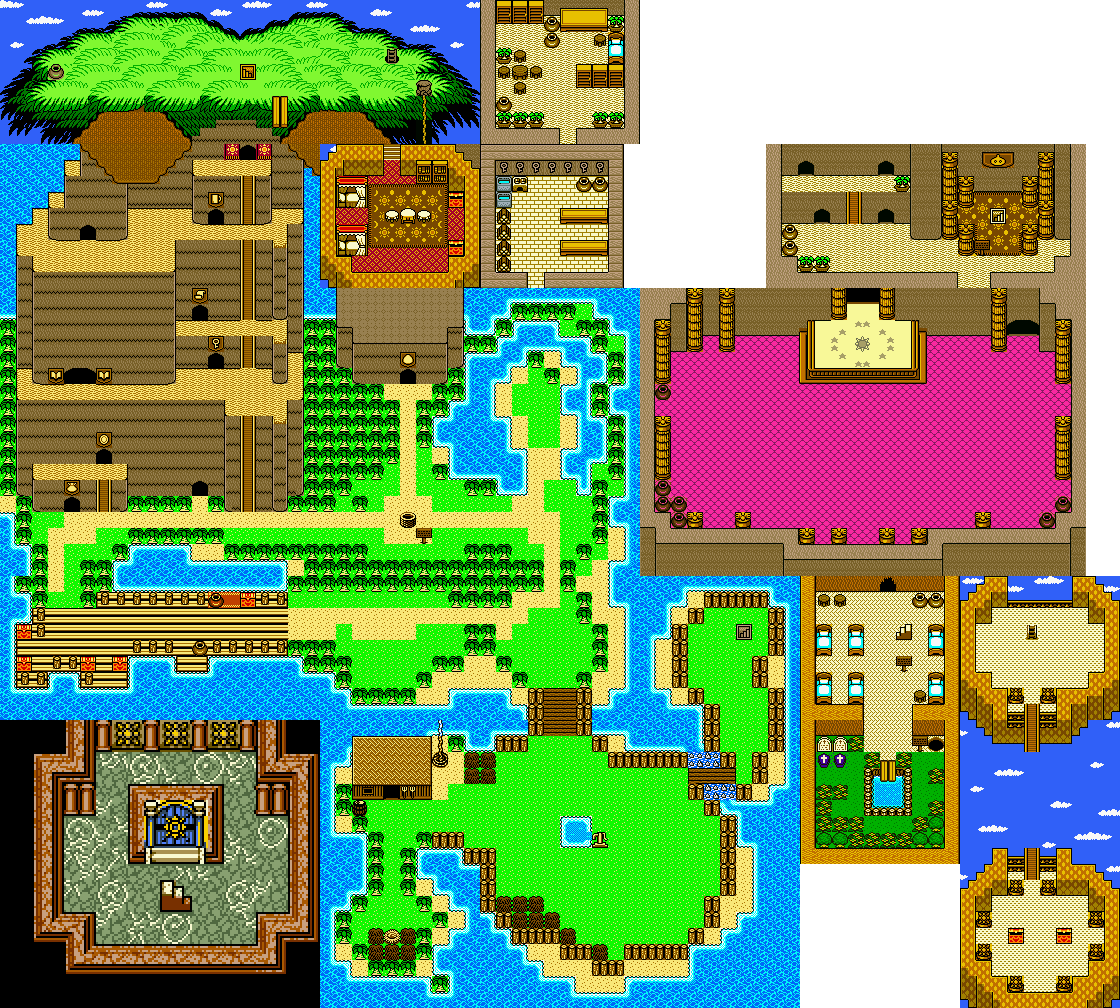
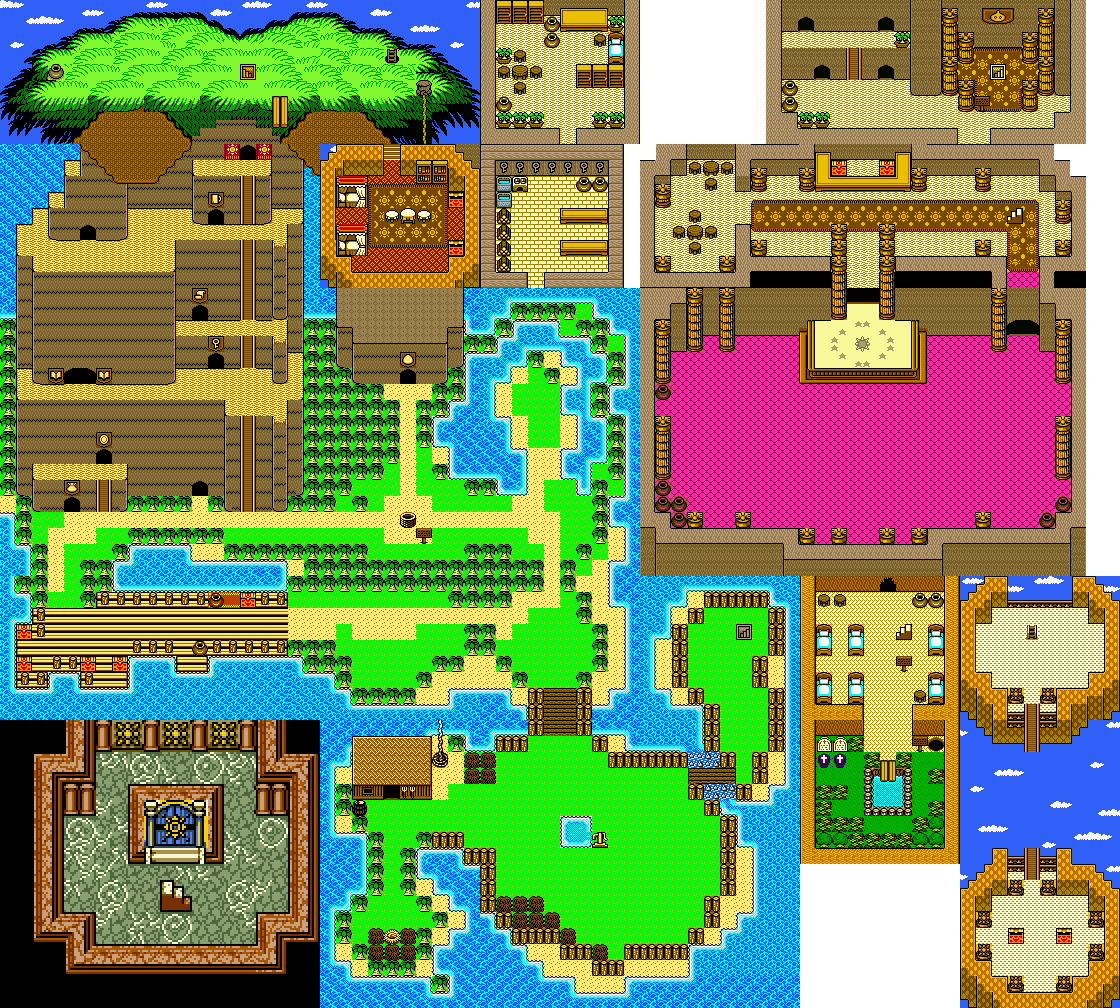
Add Arena locations. Change Heaven set to be individual items for ease of hinting. Fix Norden Boss logic. Consistency pass on item and location IDs to match apworld

Changed region(s): [[0.5625, 0.0, 0.9688, 0.3075]]

diff --git a/generation/createLocations.ts b/generation/createLocations.ts
@@ -226,13 +226,30 @@ function greatlog() {
 							]
 						},
 						{
+							name: "Arena - Tournament",
+							sections: [
+								{name: "Kid's Class", id: 0x013},
+								{name: "C Class", id: 0x014},
+								{name: "B Class", id: 0x015, access_rules: [vars.Worlds.PirateDone]},
+								{name: "A Class", id: 0x016, access_rules: [vars.Worlds.IceDone]},
+								{name: "S Class", id: 0x017, access_rules: [vars.Worlds.SkyDone]},
+							],
+							map_locations: [
+								{
+									map: vars.MapNames.GreatLog,
+									x: 854,
+									y: 168
+								}
+							]
+						},
+						{
 							name: "Housing - Vase",
 							sections: [{id: 0x008}],
 							map_locations: [
 								{
 									map: vars.MapNames.GreatLog,
 									x: 790,
-									y: 248
+									y: 104
 								}
 							]
 						},
@@ -243,7 +260,7 @@ function greatlog() {
 								{
 									map: vars.MapNames.GreatLog,
 									x: 886,
-									y: 216
+									y: 72
 								}
 							]
 						},
@@ -318,8 +335,8 @@ function greatlog() {
 						},
 					],
 					sections: [
-						{name: "Chest 1", ref: 0x11},
-						{name: "Chest 2", ref: 0x12},
+						{name: "Chest 1", ref: 0x011},
+						{name: "Chest 2", ref: 0x012},
 					],
 					map_locations: [
 						{
@@ -359,9 +376,14 @@ function greatlog() {
 				{
 					name: "Arena/Housing",
 					sections: [
-						{name: "Arena - Vase", ref: 0x05},
-						{name: "Housing - Vase", ref: 0x08},
-						{name: "Housing - Old Man Vase", ref: 0x06},
+						{name: "Arena - Vase", ref: 0x005},
+						{name: "Arena - Kid's Class", ref: 0x013},
+						{name: "Arena - C Class", ref: 0x014},
+						{name: "Arena - B Class", ref: 0x015},
+						{name: "Arena - A Class", ref: 0x016},
+						{name: "Arena - S Class", ref: 0x017},
+						{name: "Housing - Vase", ref: 0x008},
+						{name: "Housing - Old Man Vase", ref: 0x006},
 					],
 					map_locations: [
 						{
@@ -1210,7 +1232,7 @@ function ice() {
 								},
 								{
 									name: "Boss Defeated",
-									access_rules: [vars.Items.HarMirror], // requirement to beat BombCrag
+									access_rules: [[vars.Items.HarMirror, vars.Items.Crest]], // mirror needed to beat BombCrag
 									sections: [{id: 0x300, name: "AgDevil"}],
 									map_locations: [
 										{

diff --git a/generation/createItems.ts b/generation/createItems.ts
@@ -95,7 +95,10 @@ const itemData: ItemData[] = [
 	generic(0x36, "Tidal Bell", "toggle", vars.Items.TidalBell, vars.Items.TidalBell, [vars.Items.TidalBell]),
 	generic(0x37, "Har Mirror", "toggle", vars.Items.HarMirror, vars.Items.HarMirror, [vars.Items.HarMirror]),
 	generic(0x38, "Sky Shield", "toggle", vars.Items.SkyShield, vars.Items.SkyShield, [vars.Items.SkyShield]),
-	consumable(0x39, "Heaven Set", vars.Items.HeavenSet, 3, [vars.Items.HeavenSet], [0x3A, 0x3B]),
+	generic(0x39, "Heaven Helmet", "toggle", vars.Items.HeavenHelmet, vars.Items.HeavenHelmet, [vars.Items.HeavenHelmet, vars.Items.HeavenSet]),
+	generic(0x3A, "Heaven Armor", "toggle", vars.Items.HeavenArmor, vars.Items.HeavenArmor, [vars.Items.HeavenArmor, vars.Items.HeavenSet]),
+	generic(0x3B, "Heaven Sword", "toggle", vars.Items.HeavenSword, vars.Items.HeavenSword, [vars.Items.HeavenSword, vars.Items.HeavenSet]),
+	// consumable(0x39, "Heaven Set", vars.Items.HeavenSet, 3, [vars.Items.HeavenSet], [0x3A, 0x3B]),
 
 	generic(0x82, "Oasis Key", "static", vars.Items.OasisKey, vars.Items.OasisKey, [vars.Items.OasisKey]),
 	generic(0x83, "Pirate Key", "toggle", vars.Items.PirateKey, vars.Items.PirateKey, [vars.Items.PirateKey]),
@@ -132,11 +135,11 @@ export default function createItems() {
 	let output = "ITEM_MAPPING = {\n"
 	for (let item of itemData) {
 		if (item.id >= 0) {
-			output += `\t[${hexStr(item.id)}] = {"${item.mapCode}", "${item.type}"},\n`
+			output += `\t[${hexStr(item.id, 2)}] = {"${item.mapCode}", "${item.type}"},\n`
 		}
 		if (item.additionalIDs) {
 			for (let id of item.additionalIDs) {
-				output += `\t[${hexStr(id)}] = {"${item.mapCode}", "${item.type}"},\n`
+				output += `\t[${hexStr(id, 2)}] = {"${item.mapCode}", "${item.type}"},\n`
 			}
 		}
 	}

diff --git a/generation/createLayouts.ts b/generation/createLayouts.ts
@@ -34,7 +34,7 @@ function createItemGrids() {
 				[vars.Items.WaterCall, vars.Items.TidalBell, vars.Items.MoonRock],
 				[vars.Items.HarMirror, vars.Items.Crest, vars.Items.YunaSoul],
 				[vars.Items.SleepHerb, vars.Items.SkyShield, vars.Items.ChangeStaff],
-				[vars.Items.HeavenSet], // change this to one consumable item?
+				[vars.Items.HeavenHelmet, vars.Items.HeavenArmor, vars.Items.HeavenSword],
 				
 			]
 		},

diff --git a/generation/utils.ts b/generation/utils.ts
@@ -29,8 +29,8 @@ export function has(item: string, count: number = 1) {
 	return `${item}${(count > 1 ? `:${count}` : '')}`
 }
 
-export function hexStr(num: number) {
-	return "0x" + num.toString(16).toUpperCase().padStart(3, '0')
+export function hexStr(num: number, padding: number = 3) {
+	return "0x" + num.toString(16).toUpperCase().padStart(padding, '0')
 }
 
 export const vars = Object.freeze({
